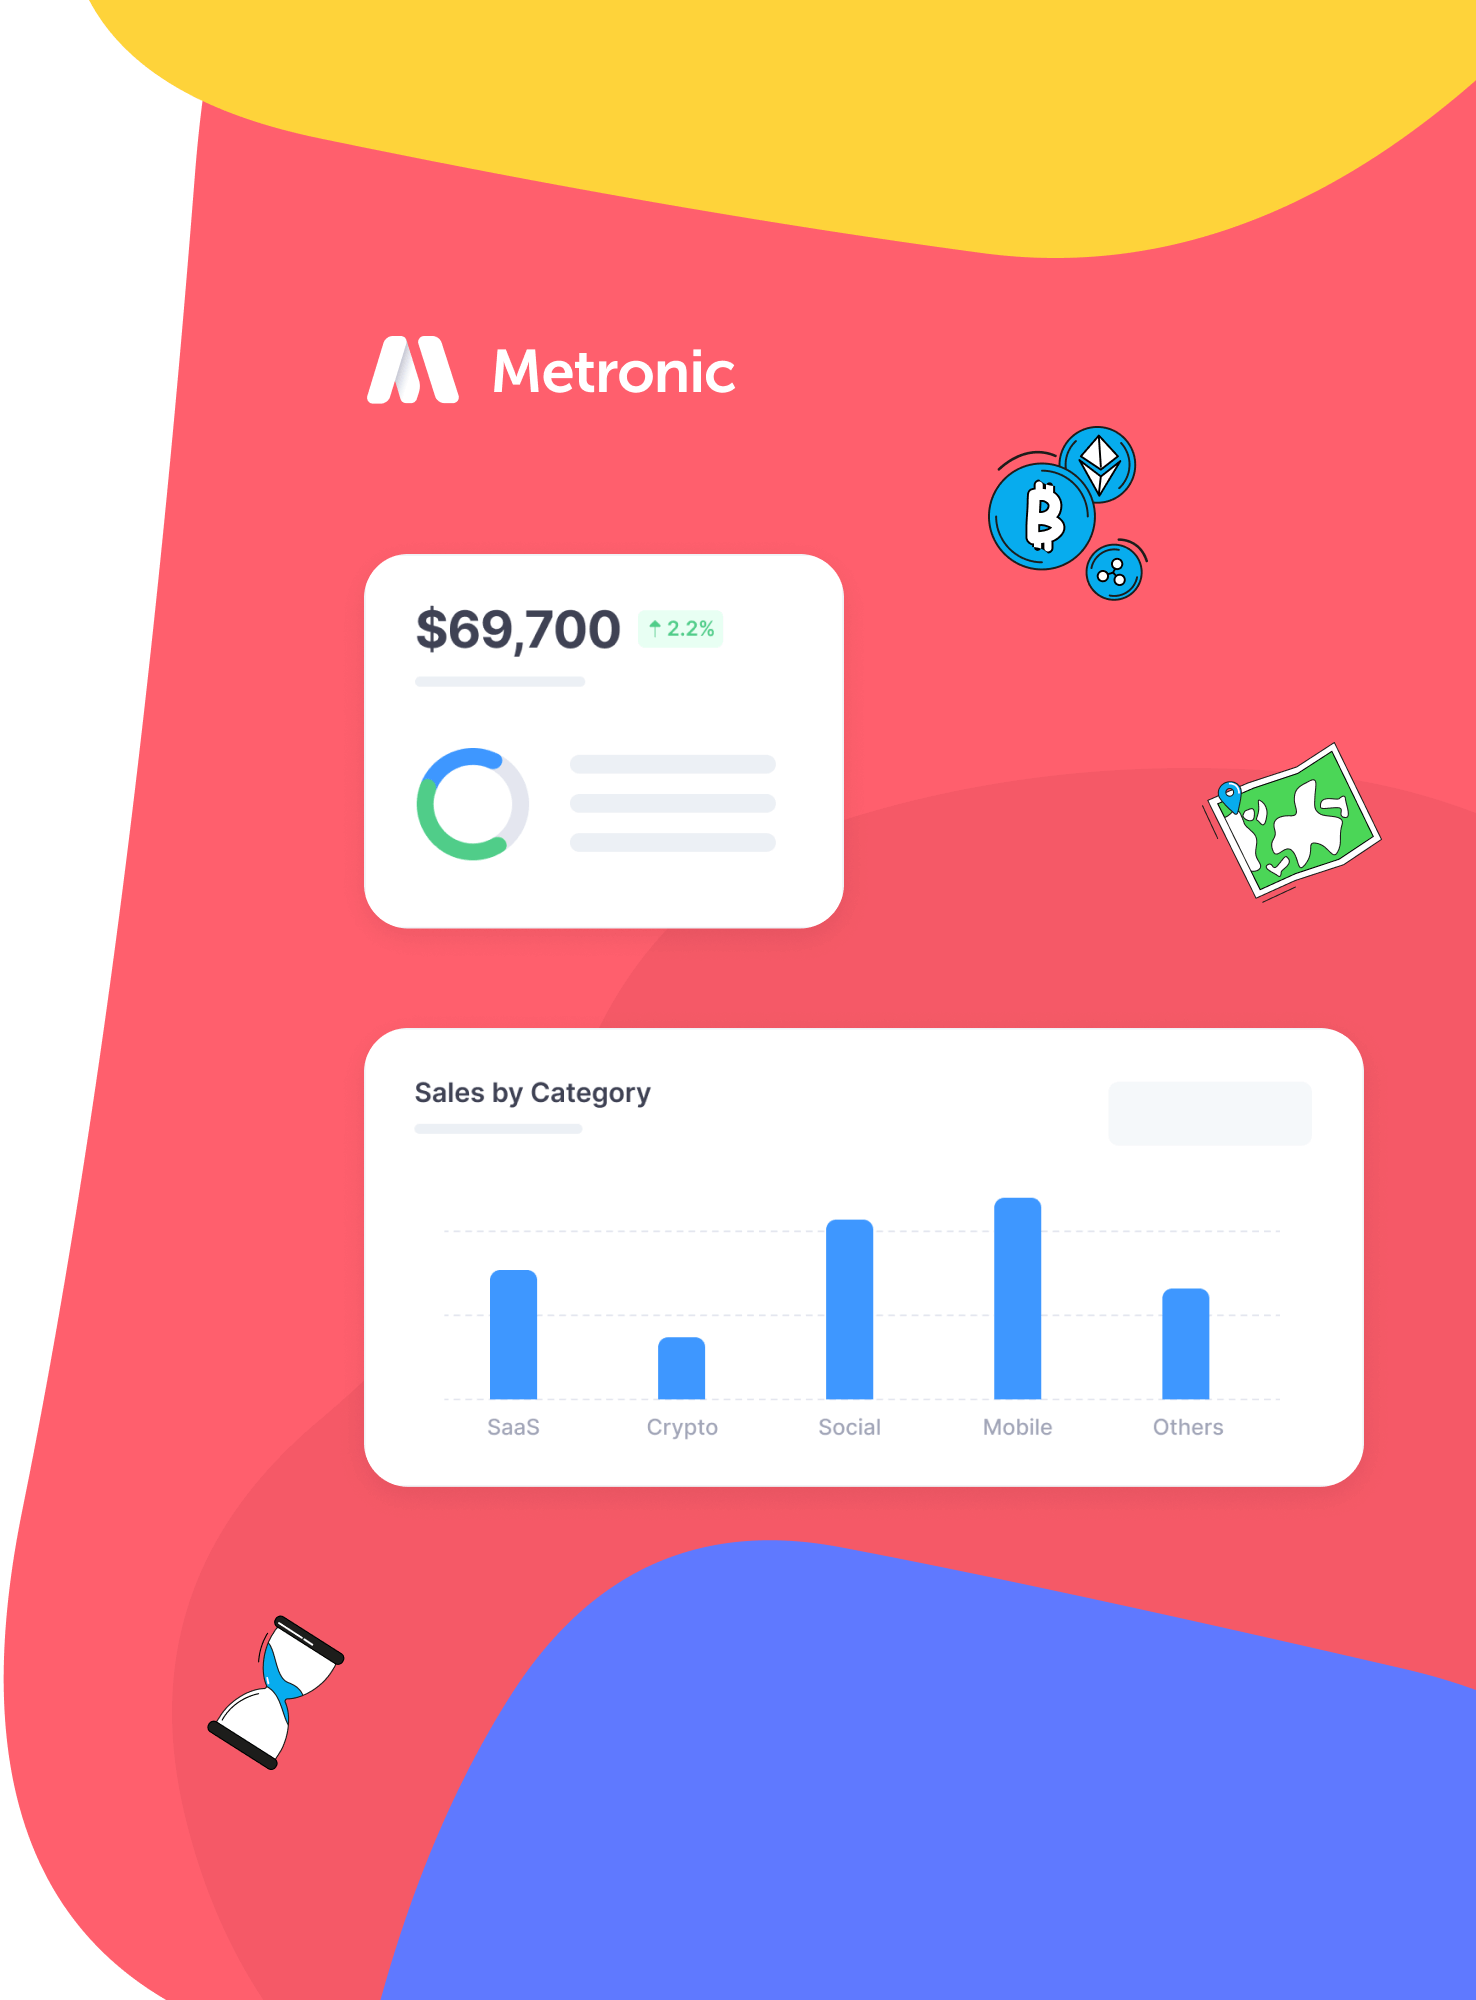
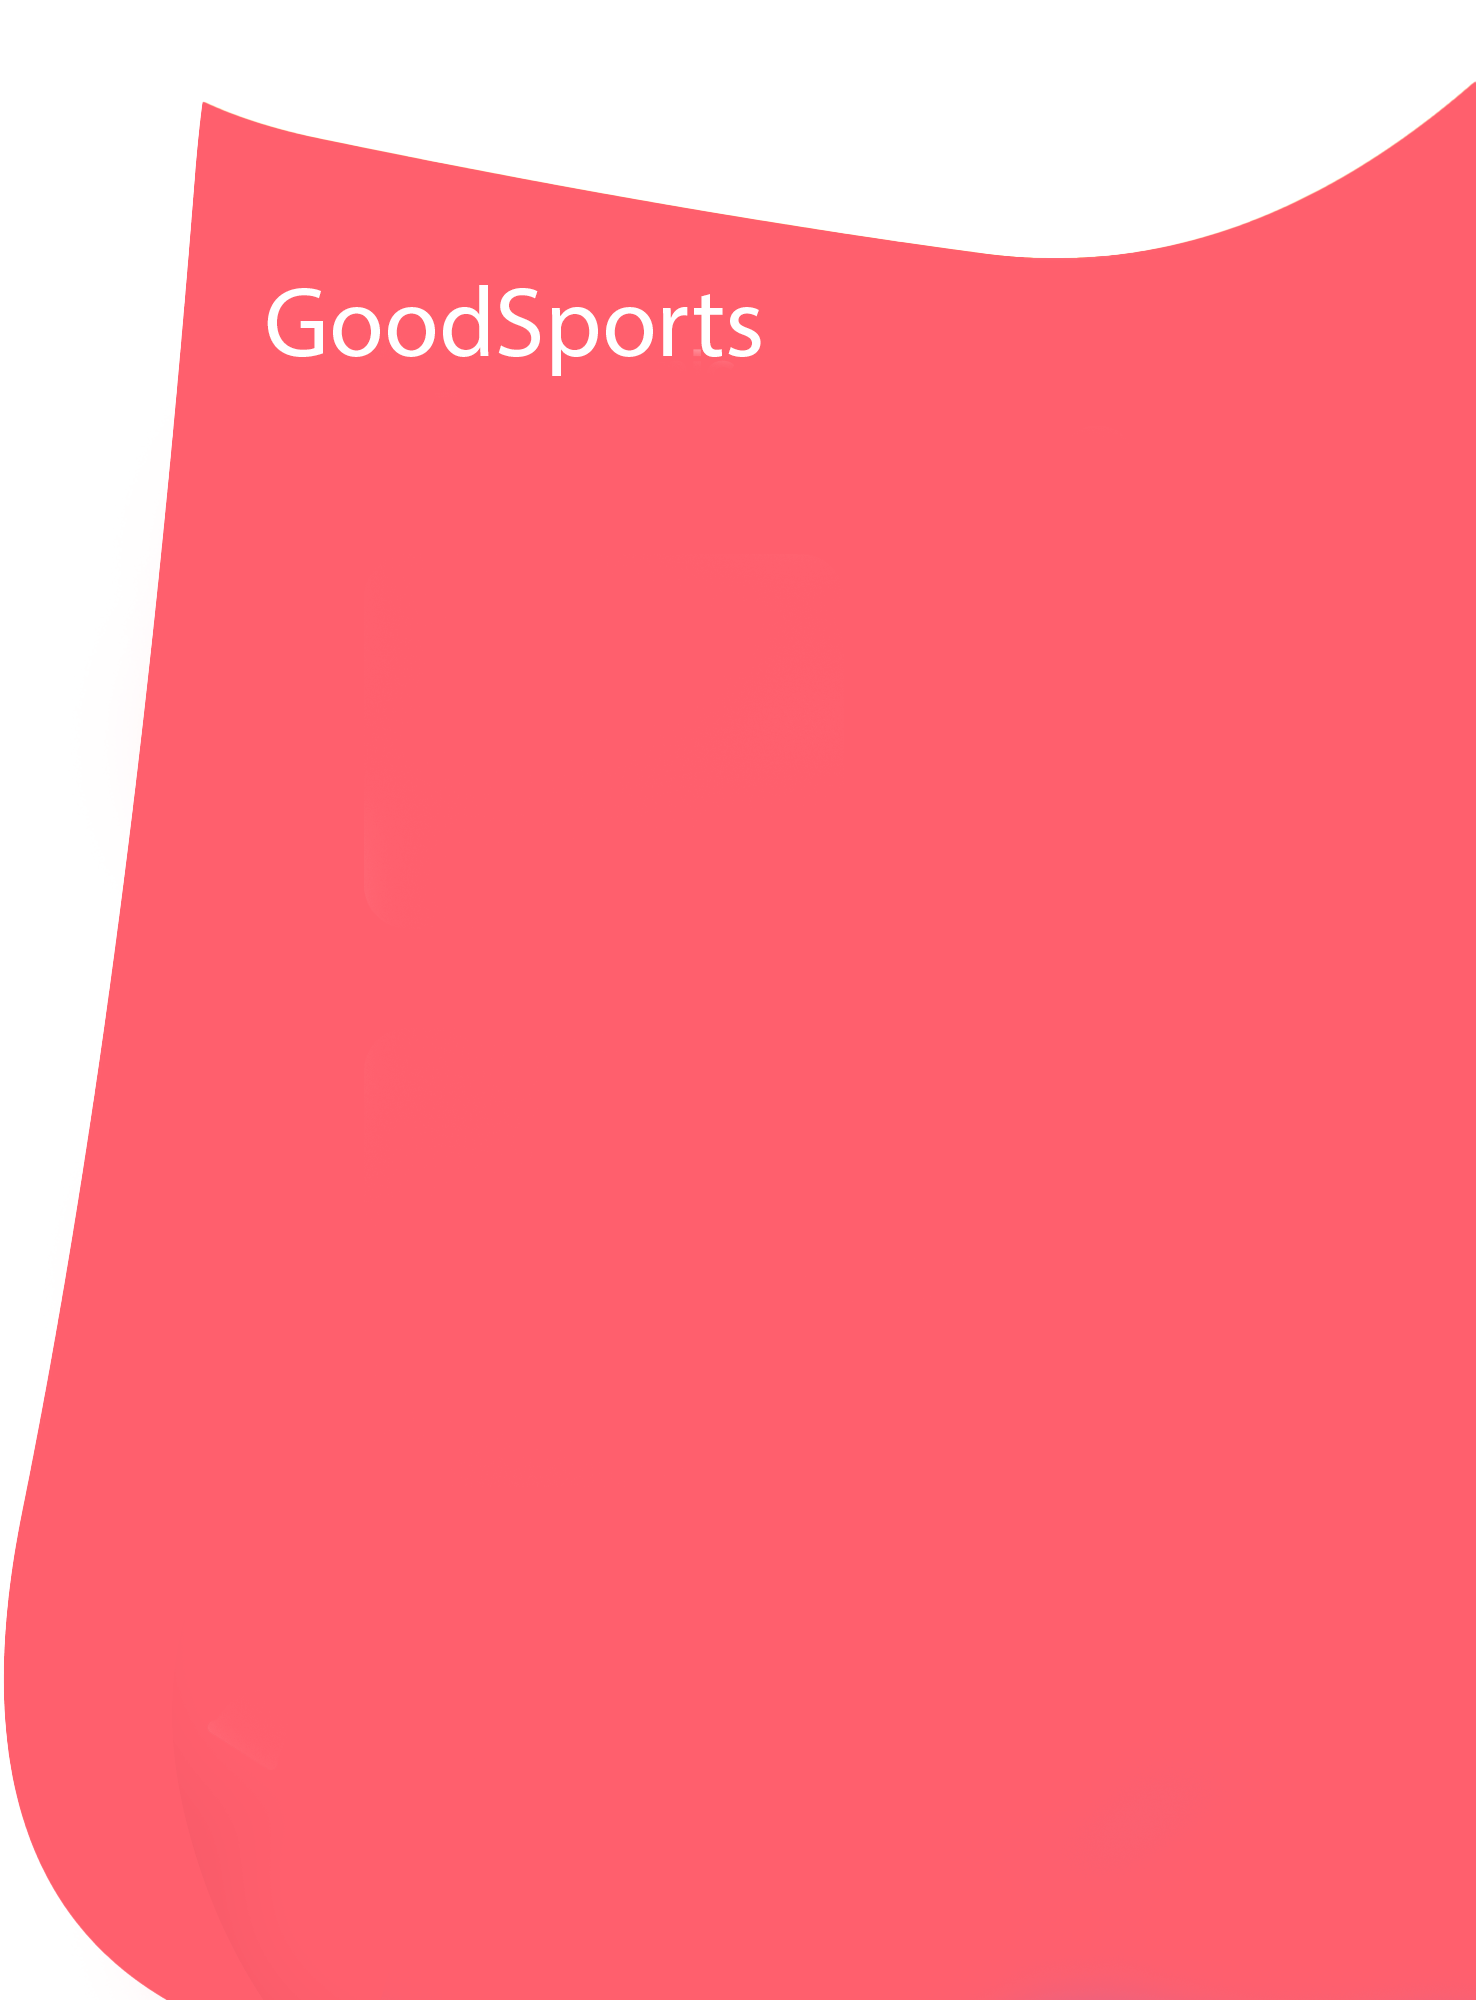
Fixed images

diff --git a/src/app/modules/auth/auth.component.html b/src/app/modules/auth/auth.component.html
@@ -1,11 +1,10 @@
-<div class="d-flex flex-column flex-lg-row flex-column-fluid">
-
+<div class="d-flex flex-column flex-lg-row flex-column-fluid vh-100">
   <!--begin::Body-->
   <div class="d-flex flex-column flex-lg-row-fluid w-lg-50 p-10 order-2 order-lg-1">
     <!--begin::Form-->
     <div class="d-flex flex-center flex-column flex-lg-row-fluid">
       <!--begin::Wrapper-->
-      <div class="<?php echo $params['wrapperClass']?> p-10">
+      <div class="p-10">
         <router-outlet></router-outlet>
       </div>
       <!--end::Wrapper-->
@@ -17,9 +16,7 @@
       <!--begin::Links-->
       <div class="d-flex fw-semibold text-primary fs-base">
         <a href="#" class="px-5" target="_blank">Terms</a>
-
         <a href="#" class="px-5" target="_blank">Plans</a>
-
         <a href="#" class="px-5" target="_blank">Contact Us</a>
       </div>
       <!--end::Links-->
@@ -30,32 +27,16 @@
 
   <!--begin::Aside-->
   <div class="d-flex flex-lg-row-fluid w-lg-50 bgi-size-cover bgi-position-center order-1 order-lg-2"
-    [ngStyle]="{'background-image': 'url(./assets/media/misc/auth-bg.png)'}">
+       [ngStyle]="{'background-image': 'url(./assets/media/goodsports/gs_background_7.png)', 'background-size': '100%', 'background-position': 'top'}">
     <!--begin::Content-->
     <div class="d-flex flex-column flex-center py-15 px-5 px-md-15 w-100">
       <!--begin::Logo-->
-
       <!--end::Logo-->
-
       <!--begin::Image-->
-
       <!--end::Image-->
-
       <!--begin::Title-->
-      <h1 class="text-white fs-2qx fw-bolder text-center mb-7">
-        Fast, Efficient and Productive
-      </h1>
       <!--end::Title-->
-
       <!--begin::Text-->
-      <div class="text-white fs-base text-center">
-        In this kind of post, <a href="#" class="opacity-75-hover text-warning fw-bold me-1">the blogger</a>
-
-        introduces a person they’ve interviewed <br /> and provides some background information about
-
-        <a href="#" class="opacity-75-hover text-warning fw-bold me-1">the interviewee</a>
-        and their <br /> work following this is a transcript of the interview.
-      </div>
       <!--end::Text-->
     </div>
     <!--end::Content-->

diff --git a/src/app/modules/auth/components/login/login.component.html b/src/app/modules/auth/components/login/login.component.html
@@ -1,5 +1,5 @@
 <!--begin::Form-->
-<form class="form w-100" [formGroup]="loginForm" novalidate="novalidate" id="kt_login_signin_form"
+<form class="form w-500" [formGroup]="loginForm" novalidate="novalidate" id="kt_login_signin_form"
   (ngSubmit)="submit()">
   <!--begin::Heading-->
   <div class="text-center mb-11">
@@ -7,9 +7,7 @@
       Sign In
     </h1>
     <!--begin::Subtitle-->
-    <div class="text-gray-500 fw-semibold fs-6">
-      Your Social Campaigns
-    </div>
+
     <!--end::Subtitle--->
     <!-- <div class="text-gray-500 fw-bold fs-4">
       New Here?
@@ -30,14 +28,7 @@
   <!--end::Separator-->
 
   <!-- begin::Alert info-->
-  <ng-container *ngIf="!hasError">
-    <div class="mb-10 bg-light-info p-8 rounded">
-      <div class="text-info">
-        Use account <strong>{{ defaultAuth.email }}</strong> and password
-        <strong>{{ defaultAuth.password }}</strong> to continue.
-      </div>
-    </div>
-  </ng-container>
+
   <!-- end::Alert info-->
 
 
@@ -52,7 +43,7 @@
   <!-- end::Alert error-->
 
   <!--begin::Form group-->
-  <div class="fv-row mb-8">
+  <div class="fv-row mb-8 w-500">
     <label class="form-label fs-6 fw-bolder text-gray-900">Email</label>
     <input class="form-control bg-transparent" type="email" name="email" formControlName="email" autocomplete="off"
       [ngClass]="{
@@ -133,16 +124,16 @@
         </span>
       </ng-container>
       <ng-container *ngIf="(isLoading$ | async) === false">
-        <span class="indicator-label">Continue</span>
+        <span class="indicator-label">Logga in</span>
       </ng-container>
     </button>
   </div>
 
   <div class="text-gray-500 text-center fw-semibold fs-6">
-    Not a Member yet?
+   Har du inget konto ?
 
     <a routerLink="/auth/sign-up" class="link-primary">
-      Sign up
+    Registrera ditt konto
     </a>
   </div>
 

diff --git a/src/app/modules/auth/components/login/login.component.ts b/src/app/modules/auth/components/login/login.component.ts
@@ -14,7 +14,7 @@ import { ActivatedRoute, Router } from '@angular/router';
 export class LoginComponent implements OnInit, OnDestroy {
   // KeenThemes mock, change it to:
   defaultAuth: any = {
-    email: 'demo@challengenow.se',
+    email: 'example@example.se',
     password: 'demo',
   };
   loginForm: FormGroup;

diff --git a/src/app/modules/auth/components/login/login.component.scss b/src/app/modules/auth/components/login/login.component.scss
@@ -3,7 +3,7 @@
   @media (min-width: 992px) {
     .login-form {
       width: 100%;
-      max-width: 450px;
+      max-width: 600px;
 
       .mat-form-field {
         width: 100%;
